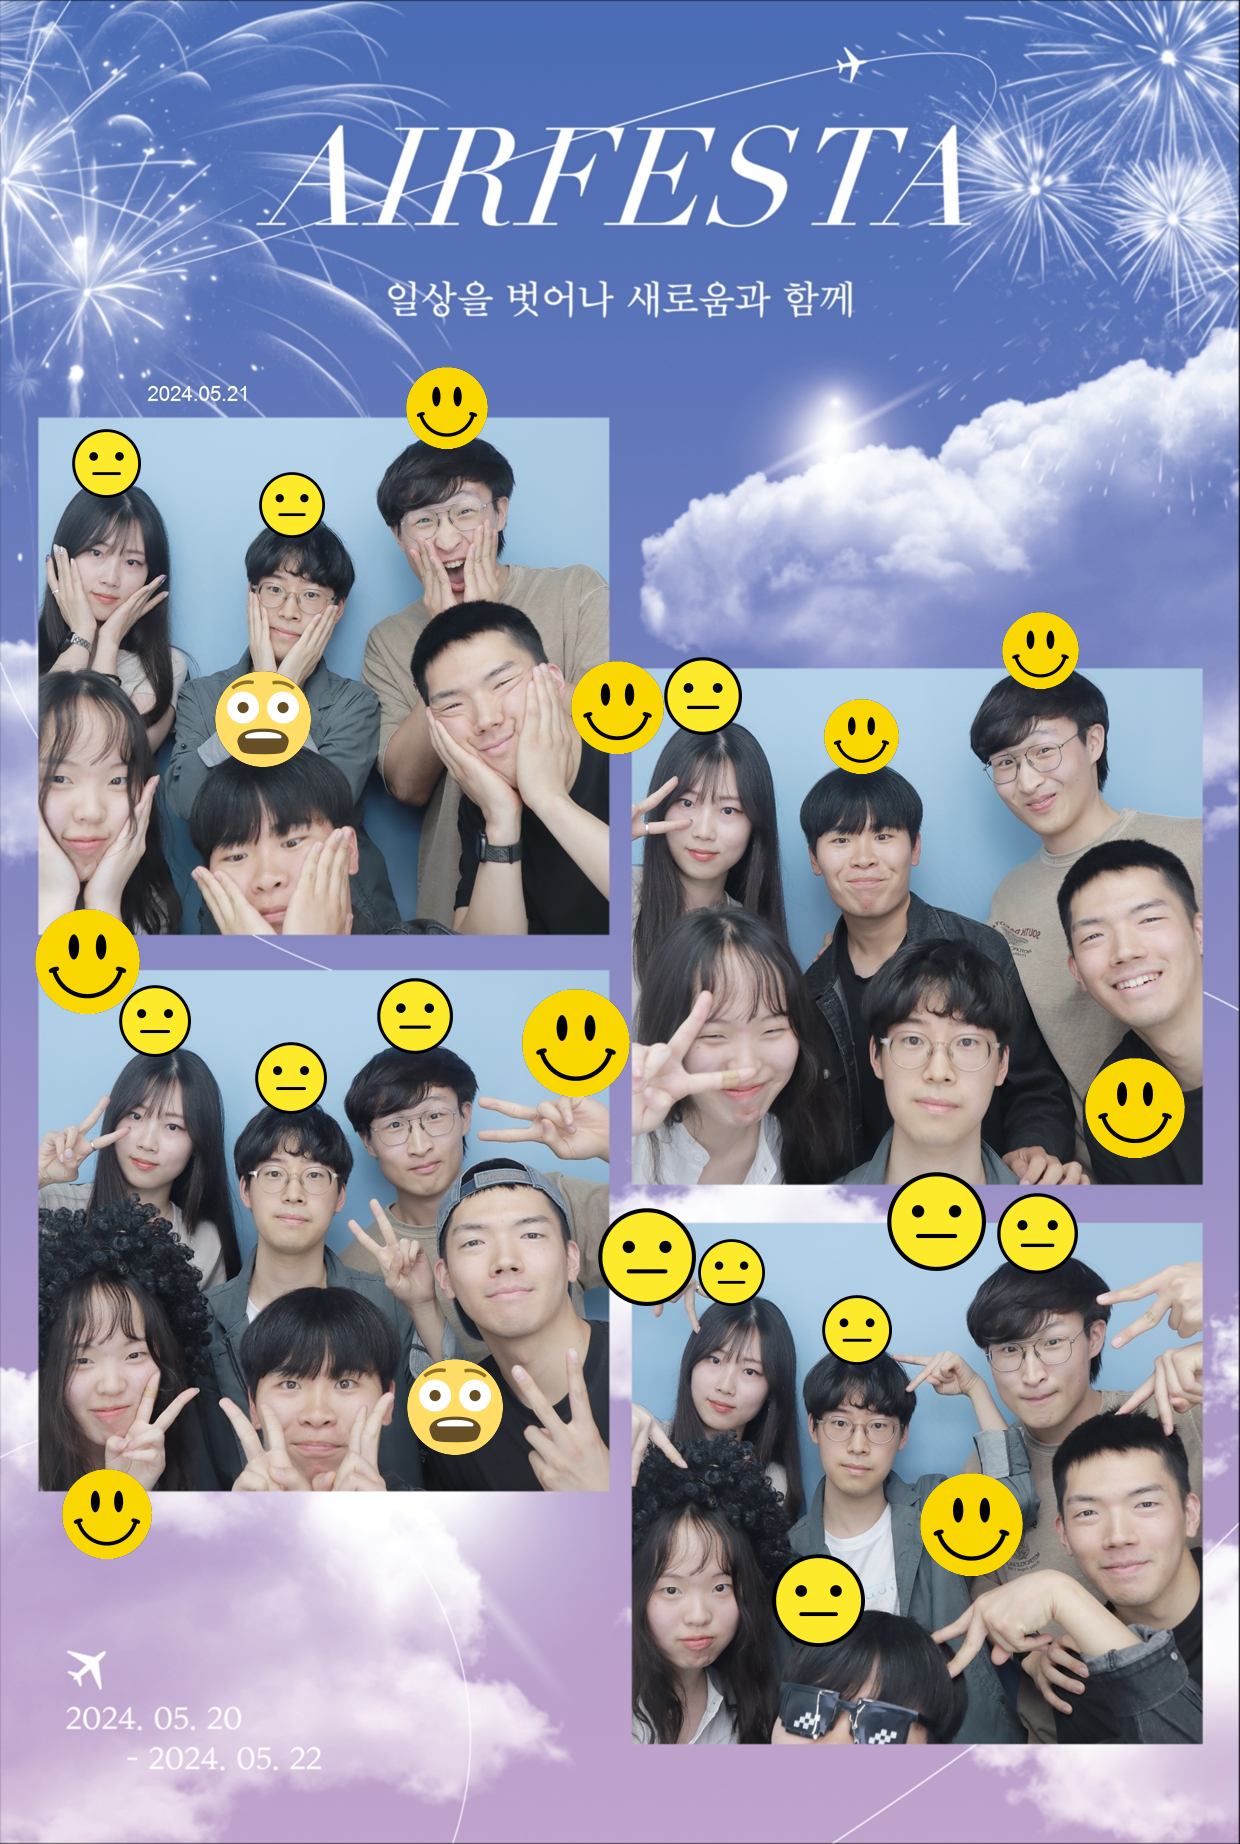
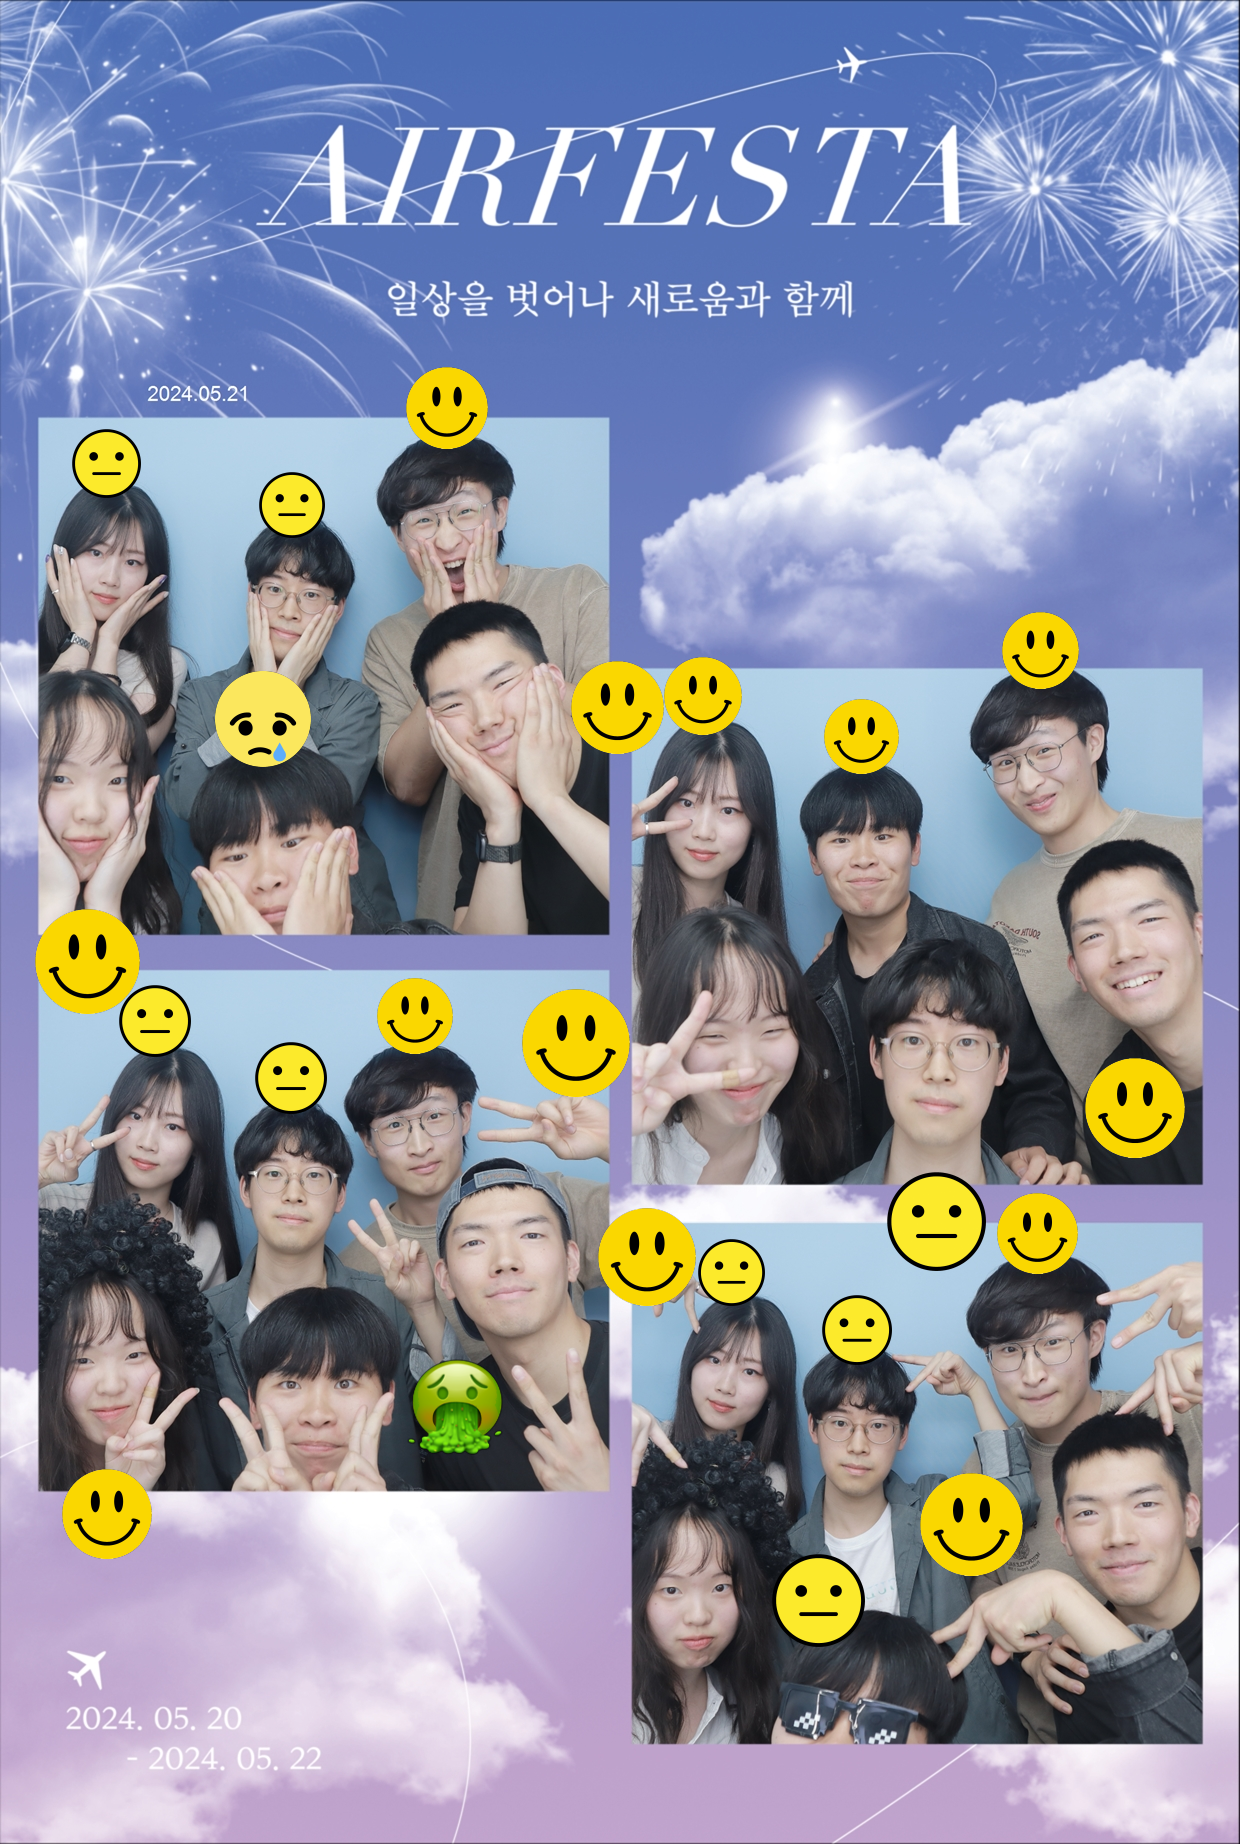
감정 분류 클래스에서 fear, contempt 제외

diff --git a/emotion/HSemotion/analyzer.py b/emotion/HSemotion/analyzer.py
@@ -8,32 +8,45 @@ from __future__ import annotations
 import os
 import cv2
 import numpy as np
-from typing import Dict, List, Tuple
+from typing import Dict, List, Tuple, Iterable
 from facenet_pytorch import MTCNN
 from hsemotion.facial_emotions import HSEmotionRecognizer
 
 
 class EmotionAnalyzer:
     """
-    HSEmotion + MTCNN 기반 감정 분석기 (AffectNet 8-class: contempt 포함)
-    기본 클래스: Anger, Contempt, Disgust, Fear, Happiness, Neutral, Sadness, Surprise
+    HSEmotion + MTCNN 기반 감정 분석기
+    기본 클래스(AffectNet 8): anger, contempt, disgust, fear, happiness, neutral, sadness, surprise
+    -> 기본 설정으로 fear, contempt는 제외하여 6-class로 동작합니다.
     """
 
-    def __init__(self, device: str = "cpu", model_name: str = "enet_b2_8", mtcnn_kwargs: dict | None = None):
+    def __init__(
+        self,
+        device: str = "cpu",
+        model_name: str = "enet_b2_8",
+        mtcnn_kwargs: dict | None = None,
+        drop_classes: Iterable[str] | None = None,  # 외부에서 바꾸고 싶으면 주입
+    ):
         # 얼굴 검출기 (MTCNN)
         self.mtcnn = MTCNN(keep_all=True, **(mtcnn_kwargs or {}))
         # 감정 분류기 (HSEmotion)
         self.fer = HSEmotionRecognizer(model_name=model_name, device=device)
-        self.class_order = [
-            "anger",
-            "contempt",
-            "disgust",
-            "fear",
-            "happiness",
-            "neutral",
-            "sadness",
-            "surprise",
-        ]
+
+        # HSEmotion 내 클래스 이름 맵 추출
+        if hasattr(self.fer, "idx_to_class"):
+            self.idx_to_class = dict(self.fer.idx_to_class)  # {idx: label}
+        elif hasattr(self.fer, "classes"):
+            self.idx_to_class = {i: name for i, name in enumerate(self.fer.classes)}
+        else:
+            # 최후의 수단: AffectNet 8-class 가정
+            self.idx_to_class = {
+                0: "anger", 1: "contempt", 2: "disgust", 3: "fear",
+                4: "happiness", 5: "neutral", 6: "sadness", 7: "surprise",
+            }
+
+        # ✅ 기본 제외: fear, contempt
+        default_drop = {"fear", "contempt"}
+        self.drop_classes = set(c.lower() for c in (drop_classes or default_drop))
 
     def _clip_box(self, box: np.ndarray, W: int, H: int, pad: int = 0) -> Tuple[int, int, int, int]:
         x1, y1, x2, y2 = box
@@ -43,7 +56,7 @@ class EmotionAnalyzer:
         return x1, y1, w, h
 
     def analyze_emotion(self, image_path: str, conf_min: float = 0.0) -> List[dict]:
-        """단일 이미지에서 여러 얼굴 감정 분석"""
+        """단일 이미지에서 여러 얼굴 감정 분석(기본 6-class: fear, contempt 제외)"""
         bgr = cv2.imread(image_path)
         if bgr is None:
             print(f"이미지 로드 실패: {image_path}")
@@ -55,7 +68,6 @@ class EmotionAnalyzer:
         boxes, _ = self.mtcnn.detect(rgb)
         results: List[dict] = []
         if boxes is None or len(boxes) == 0:
-            # 얼굴이 없으면 전체를 하나의 얼굴로 간주(포토부스 실패 대비)
             boxes = np.array([[0, 0, W, H]])
 
         for box in boxes:
@@ -64,10 +76,31 @@ class EmotionAnalyzer:
                 continue
             face_rgb = rgb[y1 : y1 + h, x1 : x1 + w].copy()
 
-            # HSEmotion: 확률 반환 원하면 logits=False
+            # HSEmotion 예측(확률)
             emotion_str, probs = self.fer.predict_emotions(face_rgb, logits=False)
-            em = emotion_str.lower()
-            conf = float(np.max(probs)) if hasattr(probs, "__len__") else 0.0
+            probs = np.asarray(probs, dtype=np.float32).reshape(-1)
+
+            # 제외 클래스 인덱스 마스킹
+            allowed_idxs = [i for i, name in self.idx_to_class.items()
+                            if name.lower() not in self.drop_classes]
+            if not allowed_idxs:
+                continue  # 전부 제외되면 skip
+
+            filtered = np.clip(probs[allowed_idxs], 0.0, None)
+            s = float(filtered.sum())
+
+            if s > 0.0:
+                # 6-class 기준 재정규화 후 top-1
+                filtered /= s
+                k = int(np.argmax(filtered))
+                pred_idx = allowed_idxs[k]
+                em = self.idx_to_class[pred_idx].lower()
+                conf = float(filtered[k])  # 재정규화된 확률
+            else:
+                # 모두 0이면 원래 top-1로 fallback (거의 없음)
+                pred_idx = int(np.argmax(probs))
+                em = self.idx_to_class.get(pred_idx, emotion_str).lower()
+                conf = float(probs[pred_idx])
 
             if conf >= conf_min:
                 results.append({

diff --git a/emotion/HSemotion/config.py b/emotion/HSemotion/config.py
@@ -15,10 +15,10 @@ DEFAULT_EMOJI_FILENAMES: Dict[str, str] = {
     "sadness": "sad.png",
     "anger": "angry.png",
     "surprise": "surprise.png",
-    "fear": "fear.png",
     "disgust": "disgust.png",
     "neutral": "neutral.png",
-    "contempt": "contempt.png",
+    # "fear": "fear.png",
+    # "contempt": "contempt.png",
 }
 
 @dataclass

diff --git a/emotion/HSemotion/__init__.py b/emotion/HSemotion/__init__.py
@@ -13,4 +13,4 @@ __all__ = [
     "utils",
     "visualize",
 ]
-__version__ = "0.1.0"
+__version__ = "0.1.1"
